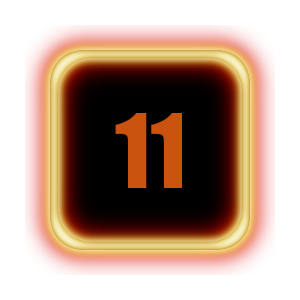
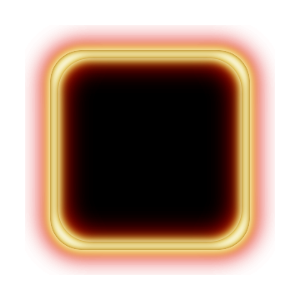
Added Numbers to LevelChoiceScene

Changed region(s): [[0.36, 0.36, 0.63, 0.63]]

diff --git a/app/src/main/java/de/sopa/scene/LevelChoiceScene.java b/app/src/main/java/de/sopa/scene/LevelChoiceScene.java
@@ -11,6 +11,7 @@ import org.andengine.entity.Entity;
 import org.andengine.entity.modifier.MoveXModifier;
 import org.andengine.entity.sprite.ButtonSprite;
 import org.andengine.entity.sprite.Sprite;
+import org.andengine.entity.text.Text;
 import org.andengine.input.touch.TouchEvent;
 
 /**
@@ -33,37 +34,36 @@ public class LevelChoiceScene extends BaseScene {
         screenCount = (availableLevels.length / 12) + 1;
         currentScreen = 0;
         addChangeLevelButtons();
-        entityToFollow = new Entity(camera.getWidth()/2, camera.getHeight()/2);
+        entityToFollow = new Entity(camera.getWidth() / 2, camera.getHeight() / 2);
         attachChild(entityToFollow);
         camera.setChaseEntity(entityToFollow);
-
     }
 
     private void addChangeLevelButtons() {
-        rightArrow = new ButtonSprite(camera.getWidth() * 0.93f - LEVEL_SELECT_ICON_WIDTH, camera.getHeight() * 0.8f, resourcesManager.levelChoiceArrowRightRegion, vbom, new ButtonSprite.OnClickListener(){
+        rightArrow = new ButtonSprite(camera.getWidth() * 0.93f - LEVEL_SELECT_ICON_WIDTH, camera.getHeight() * 0.8f, resourcesManager.levelChoiceArrowRightRegion, vbom, new ButtonSprite.OnClickListener() {
             @Override
             public void onClick(ButtonSprite pButtonSprite, float pTouchAreaLocalX, float pTouchAreaLocalY) {
-                if(currentScreen < screenCount - 1) {
+                if (currentScreen < screenCount - 1) {
                     currentScreen++;
                     entityToFollow.registerEntityModifier(new MoveXModifier(0.5f, entityToFollow.getX(), currentScreen * camera.getWidth() + camera.getWidth() / 2));
-                    if(currentScreen == screenCount -1) {
-                        rightArrow.setVisible(false);
+                    if (currentScreen == screenCount - 1) {
+                        leftArrow.setVisible(true);
                     }
                     leftArrow.setVisible(true);
                 }
             }
         });
-        leftArrow = new ButtonSprite(camera.getWidth() * 0.07f, camera.getHeight() * 0.8f, resourcesManager.levelChoiceArrowLeftRegion, vbom, new ButtonSprite.OnClickListener(){
+        leftArrow = new ButtonSprite(camera.getWidth() * 0.07f, camera.getHeight() * 0.8f, resourcesManager.levelChoiceArrowLeftRegion, vbom, new ButtonSprite.OnClickListener() {
             @Override
             public void onClick(ButtonSprite pButtonSprite, float pTouchAreaLocalX, float pTouchAreaLocalY) {
-                    if (currentScreen > 0) {
-                        currentScreen--;
-                        entityToFollow.registerEntityModifier(new MoveXModifier(0.5f, entityToFollow.getX(), currentScreen * camera.getWidth() + camera.getWidth() / 2));
-                        if (currentScreen == 0) {
-                            leftArrow.setVisible(false);
-                        }
-                        rightArrow.setVisible(true);
+                if (currentScreen > 0) {
+                    currentScreen--;
+                    entityToFollow.registerEntityModifier(new MoveXModifier(0.5f, entityToFollow.getX(), currentScreen * camera.getWidth() + camera.getWidth() / 2));
+                    if (currentScreen == 0) {
+                        leftArrow.setVisible(false);
                     }
+                    rightArrow.setVisible(true);
+                }
             }
         });
 
@@ -86,6 +86,7 @@ public class LevelChoiceScene extends BaseScene {
     private void addLevelChooseTiles(final String[] strings, float widthPerLevel) {
         final GameFieldHandler gameFieldHandler = new GameFieldHandler();
         for (int levelIndex = 0; levelIndex < strings.length; levelIndex++) {
+
             ChoiceLevelSprite sprite = new ChoiceLevelSprite(getLevelSpriteX(widthPerLevel, levelIndex),
                     getLevelSpriteY(widthPerLevel, levelIndex), widthPerLevel, widthPerLevel, ResourcesManager.getInstance().levelChoiceRegion, vbom, strings[levelIndex]) {
                 @Override
@@ -99,6 +100,18 @@ public class LevelChoiceScene extends BaseScene {
             };
             registerTouchArea(sprite);
             attachChild(sprite);
+            int fontOffset;
+            if ((levelIndex + 1) > 99) {
+                fontOffset = 105;
+            } else if ((levelIndex + 1) > 9) {
+                fontOffset = 120;
+            } else {
+                fontOffset = 150;
+            }
+            attachChild(new Text(getLevelSpriteX(widthPerLevel, levelIndex) + fontOffset, getLevelSpriteY(widthPerLevel, levelIndex) + 110,
+                    resourcesManager.levelChoiceFont, String.valueOf(levelIndex + 1), vbom));
+
+
         }
     }
 

diff --git a/app/src/main/java/de/sopa/manager/ResourcesManager.java b/app/src/main/java/de/sopa/manager/ResourcesManager.java
@@ -1,5 +1,6 @@
 package de.sopa.manager;
 
+import android.graphics.Color;
 import de.sopa.MainActivity;
 import java.util.Map;
 import org.andengine.engine.Engine;
@@ -39,6 +40,7 @@ public class ResourcesManager {
     public ITextureRegion levelChoiceArrowLeftRegion;
 
     public IFont scoreFont;
+    public IFont levelChoiceFont;
 
     public void loadSplashSceneResources() {
         splash_region = resourceLoader.getTexture("scenes/splash/splash.png");
@@ -53,7 +55,7 @@ public class ResourcesManager {
 
     public void loadGameSceneResources() {
         loadGameSceneGraphics();
-        scoreFont = resourceLoader.getFont("Impact.ttf", TextureOptions.REPEATING_BILINEAR_PREMULTIPLYALPHA);
+        scoreFont = resourceLoader.getFont("Impact.ttf", TextureOptions.REPEATING_BILINEAR_PREMULTIPLYALPHA, 200, Color.WHITE, 2, Color.RED);
 
     }
 
@@ -61,6 +63,8 @@ public class ResourcesManager {
         levelChoiceRegion = resourceLoader.getTexture("scenes/levelChoice/Level.png");
         levelChoiceArrowLeftRegion = resourceLoader.getTexture("scenes/levelChoice/ArrowLeft.png");
         levelChoiceArrowRightRegion = resourceLoader.getTexture("scenes/levelChoice/ArrowRight.png");
+        levelChoiceFont = resourceLoader.getFont("Impact.ttf", TextureOptions.REPEATING_BILINEAR_PREMULTIPLYALPHA, 110, 0xFFca540f, 2, Color.RED);
+
 
     }
     private void loadMenuSceneGraphics() {

diff --git a/app/src/main/java/de/sopa/manager/ResourceLoader.java b/app/src/main/java/de/sopa/manager/ResourceLoader.java
@@ -73,11 +73,11 @@ public class ResourceLoader {
         return regionMap;
     }
 
-    public IFont getFont(final String name, TextureOptions textureOptions) {
+    public IFont getFont(final String name, TextureOptions textureOptions, float size, int color, float strokeWidth, int strokeColor) {
         FontFactory.setAssetBasePath("fonts/");
         final ITexture mainFontTexture = new BitmapTextureAtlas(textureManager, 512, 512, textureOptions);
         IFont font = FontFactory.createStrokeFromAsset(ResourcesManager.getInstance().activity.getFontManager(),
-                mainFontTexture, ResourcesManager.getInstance().activity.getAssets(), name, 200, true, Color.WHITE, 2, Color.RED);
+        mainFontTexture, ResourcesManager.getInstance().activity.getAssets(), name, size , true, color, strokeWidth, strokeColor);
         font.load();
         return font;
     }
